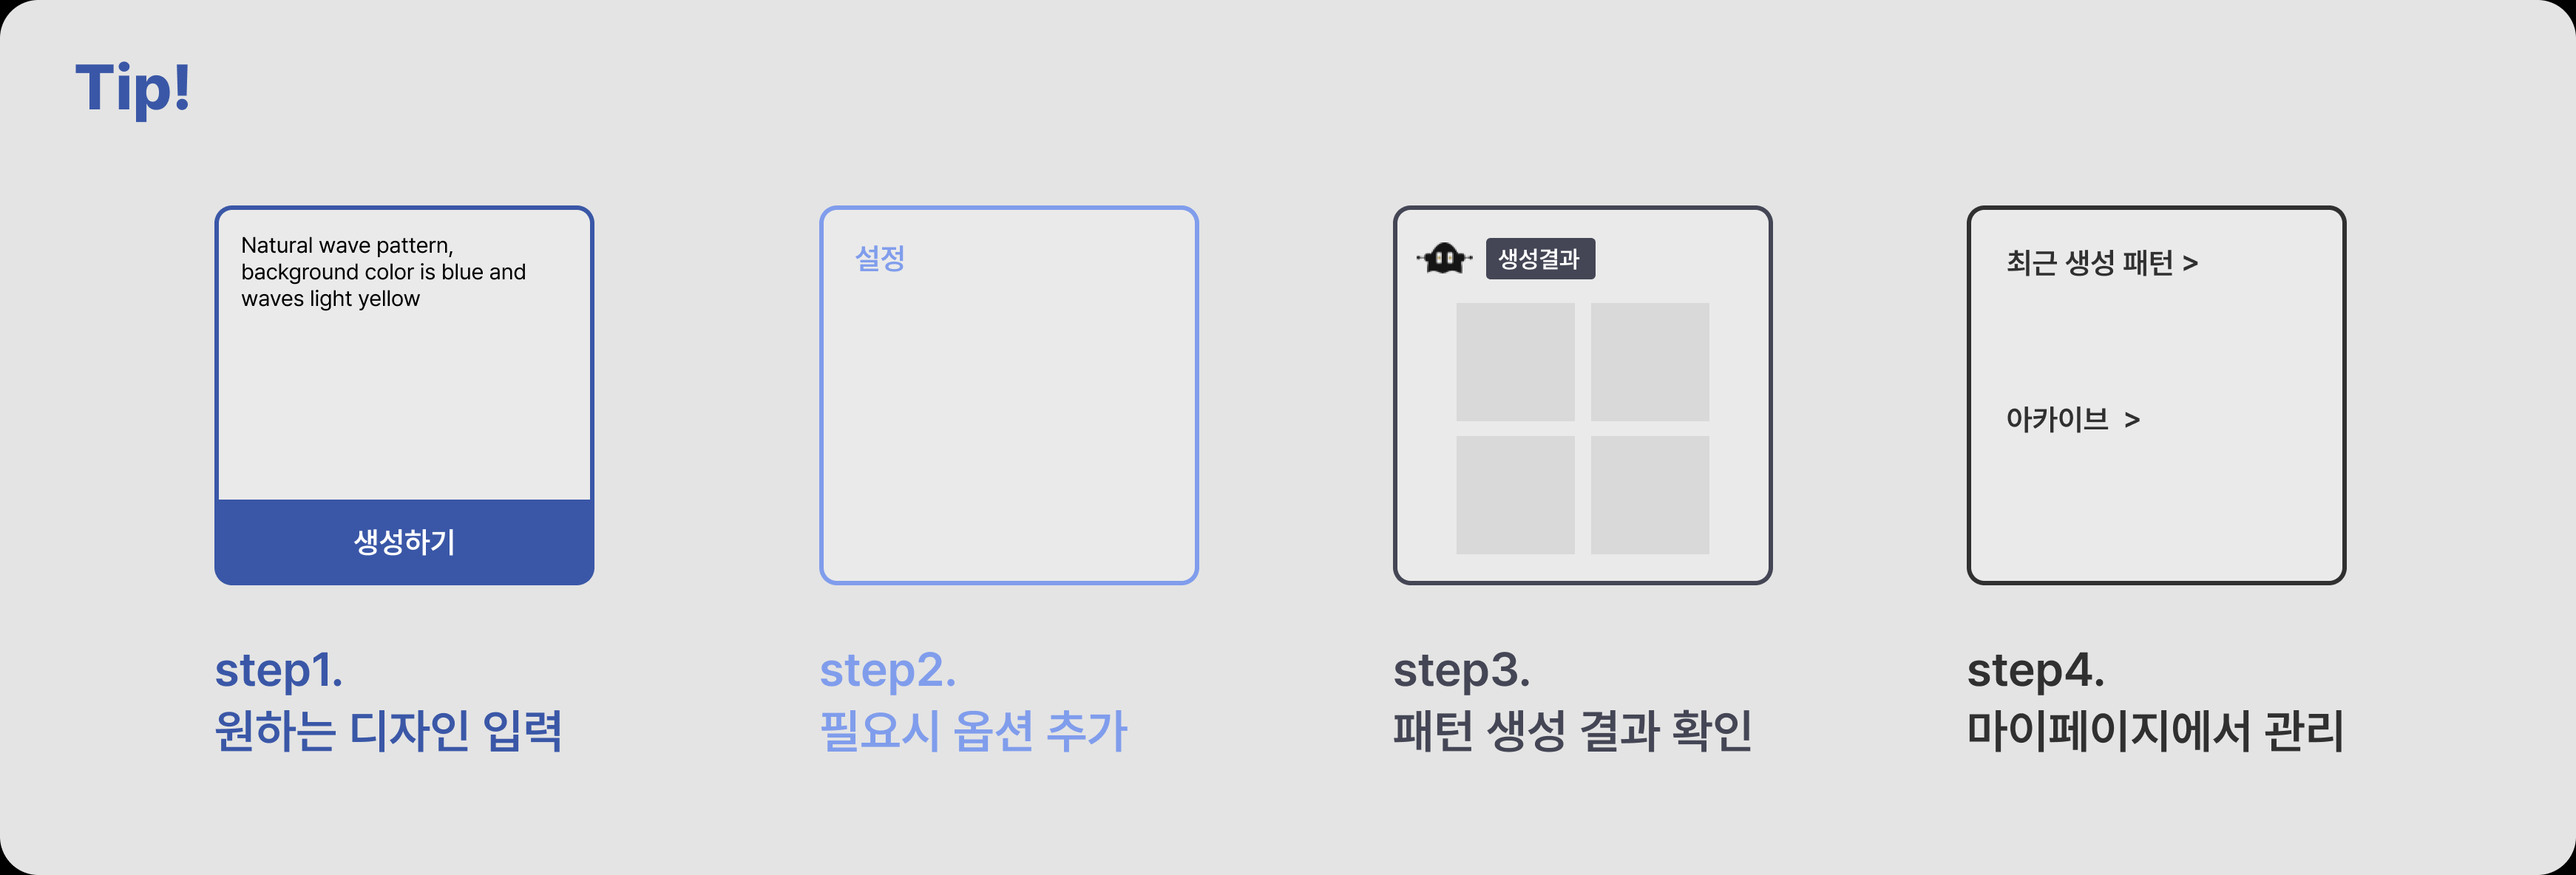
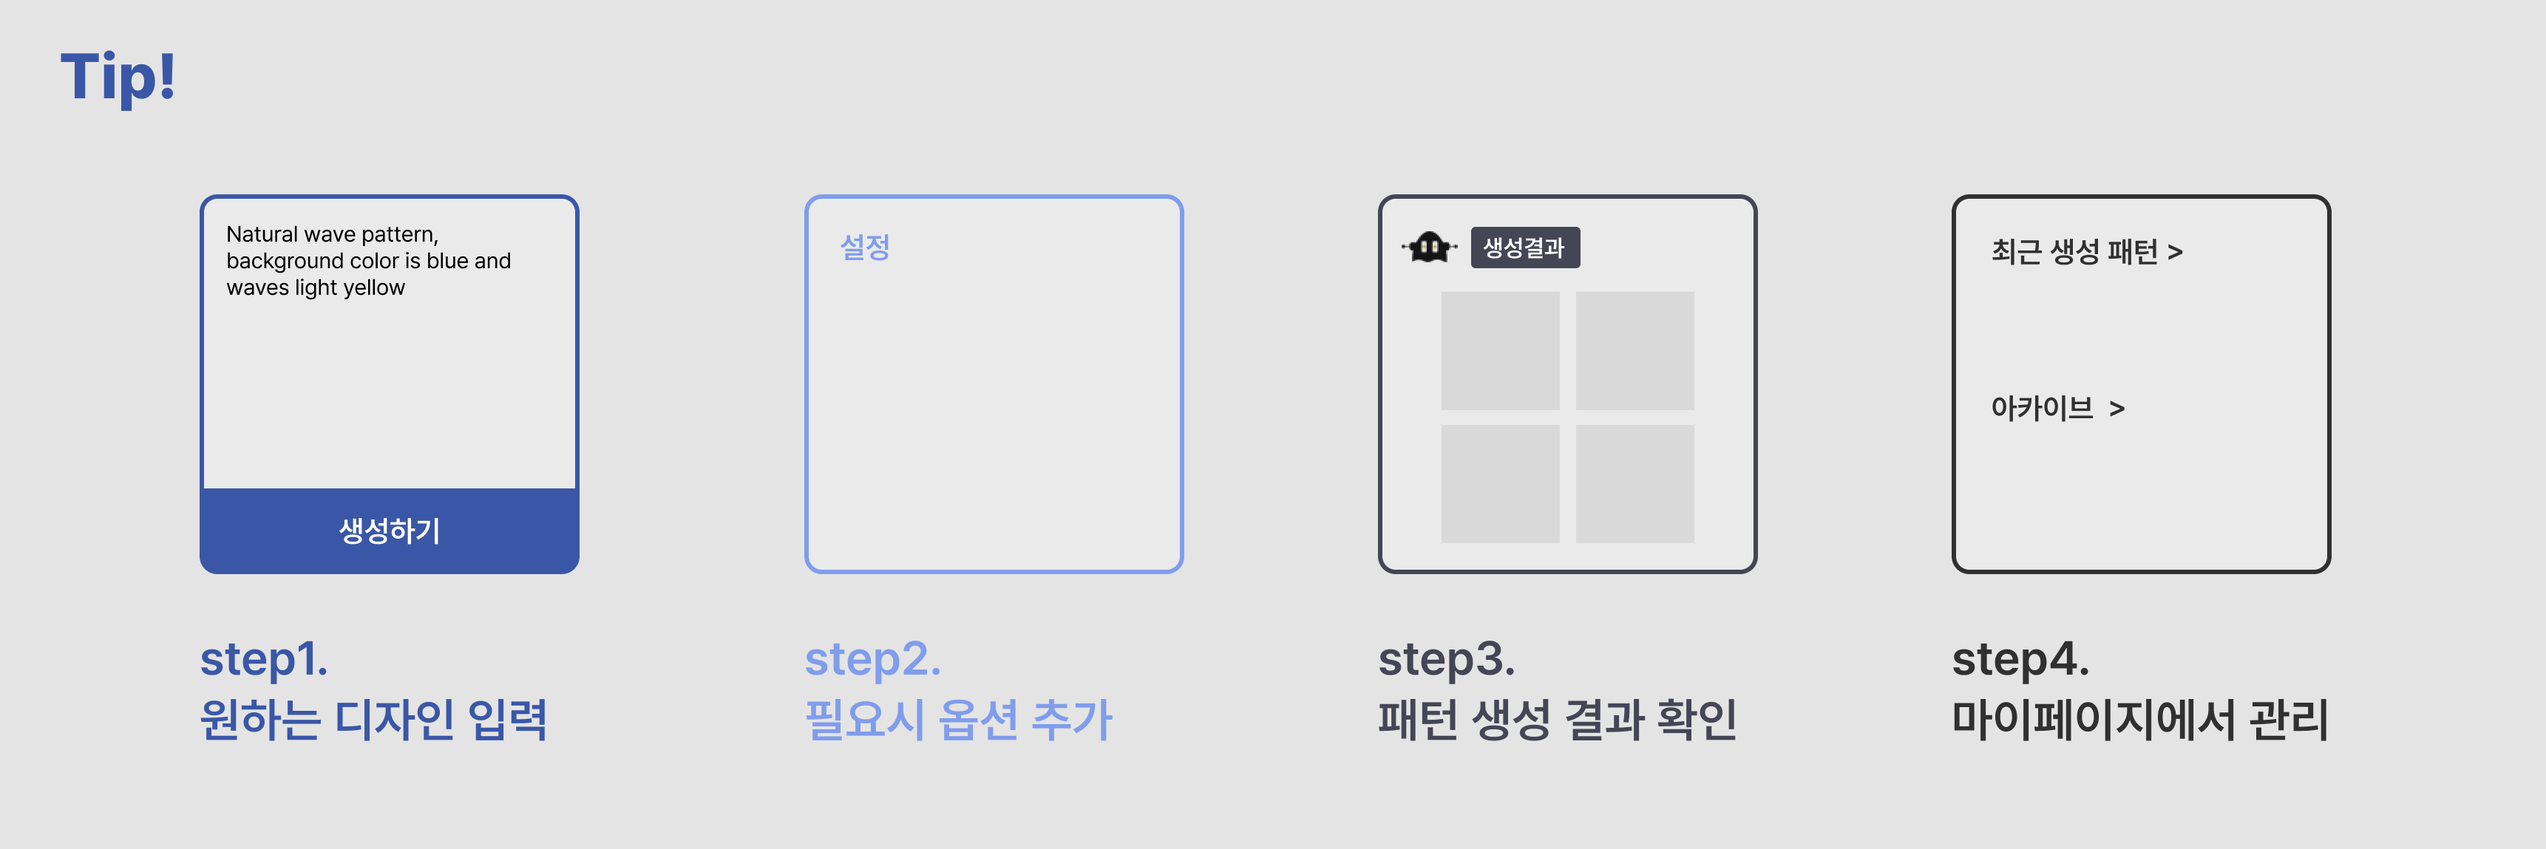
이미지 수정

diff --git a/src/pages/Main.jsx b/src/pages/Main.jsx
@@ -25,7 +25,7 @@ function Main() {
 
             {/* 이미지 삽입 */}
             <div className="flex justify-center items-center w-full" style={{ marginTop: '60px' }}>
-                <img src={TipImage} alt="Tip Image" className="w-3/4 h-auto" style={{ border: '26px solid #E4E4E4' }} />
+                <img src={TipImage} alt="Tip Image" className="w-3/4 h-auto" style={{ borderRadius: '26px' }} />
             </div>
         </div>
     );
